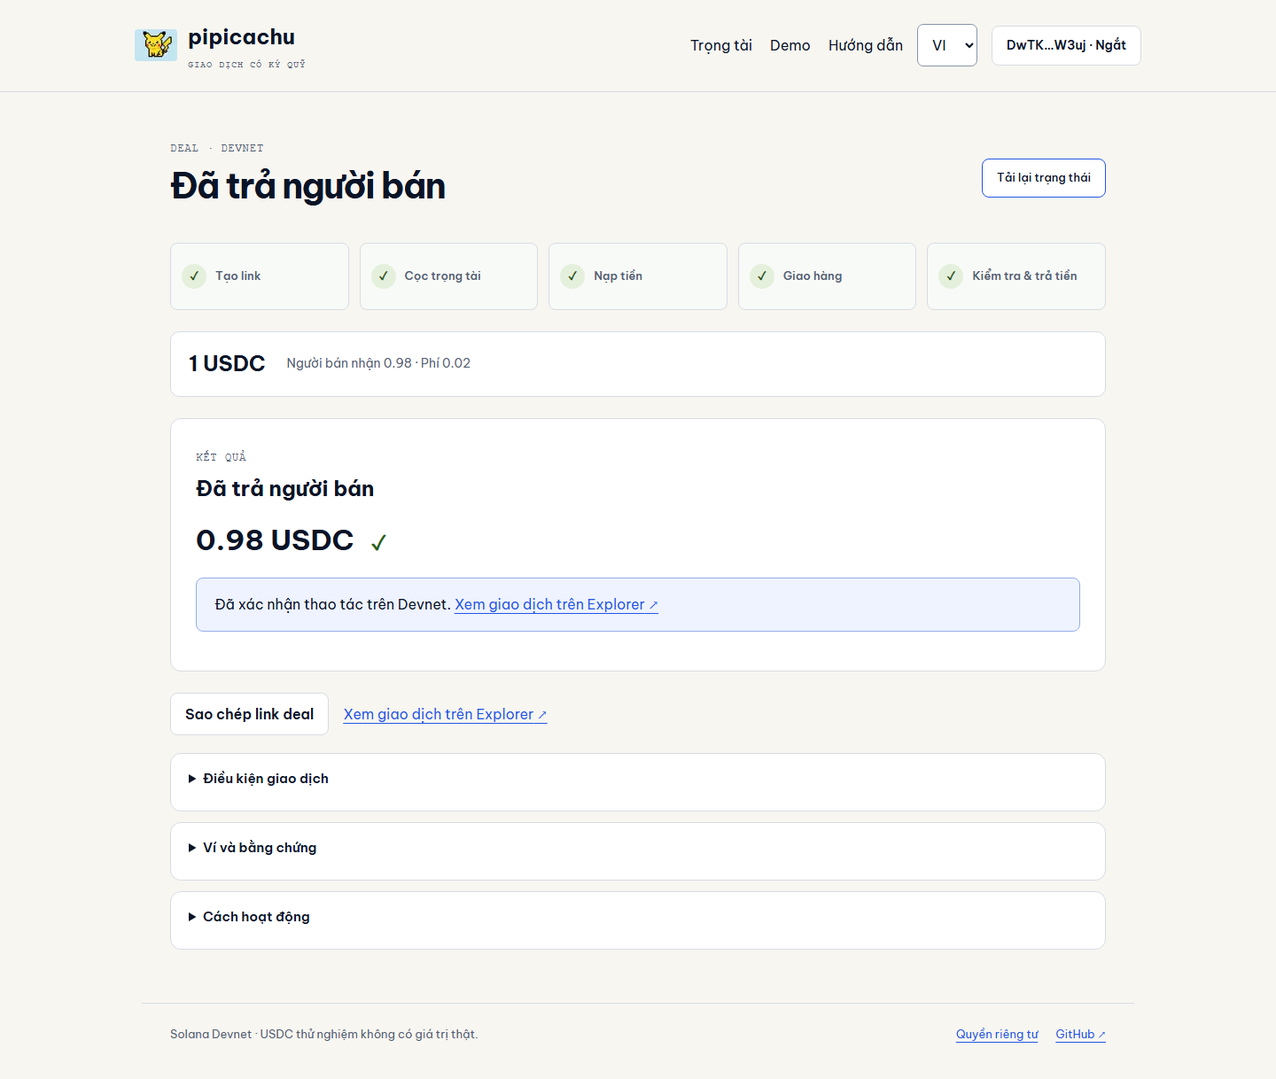
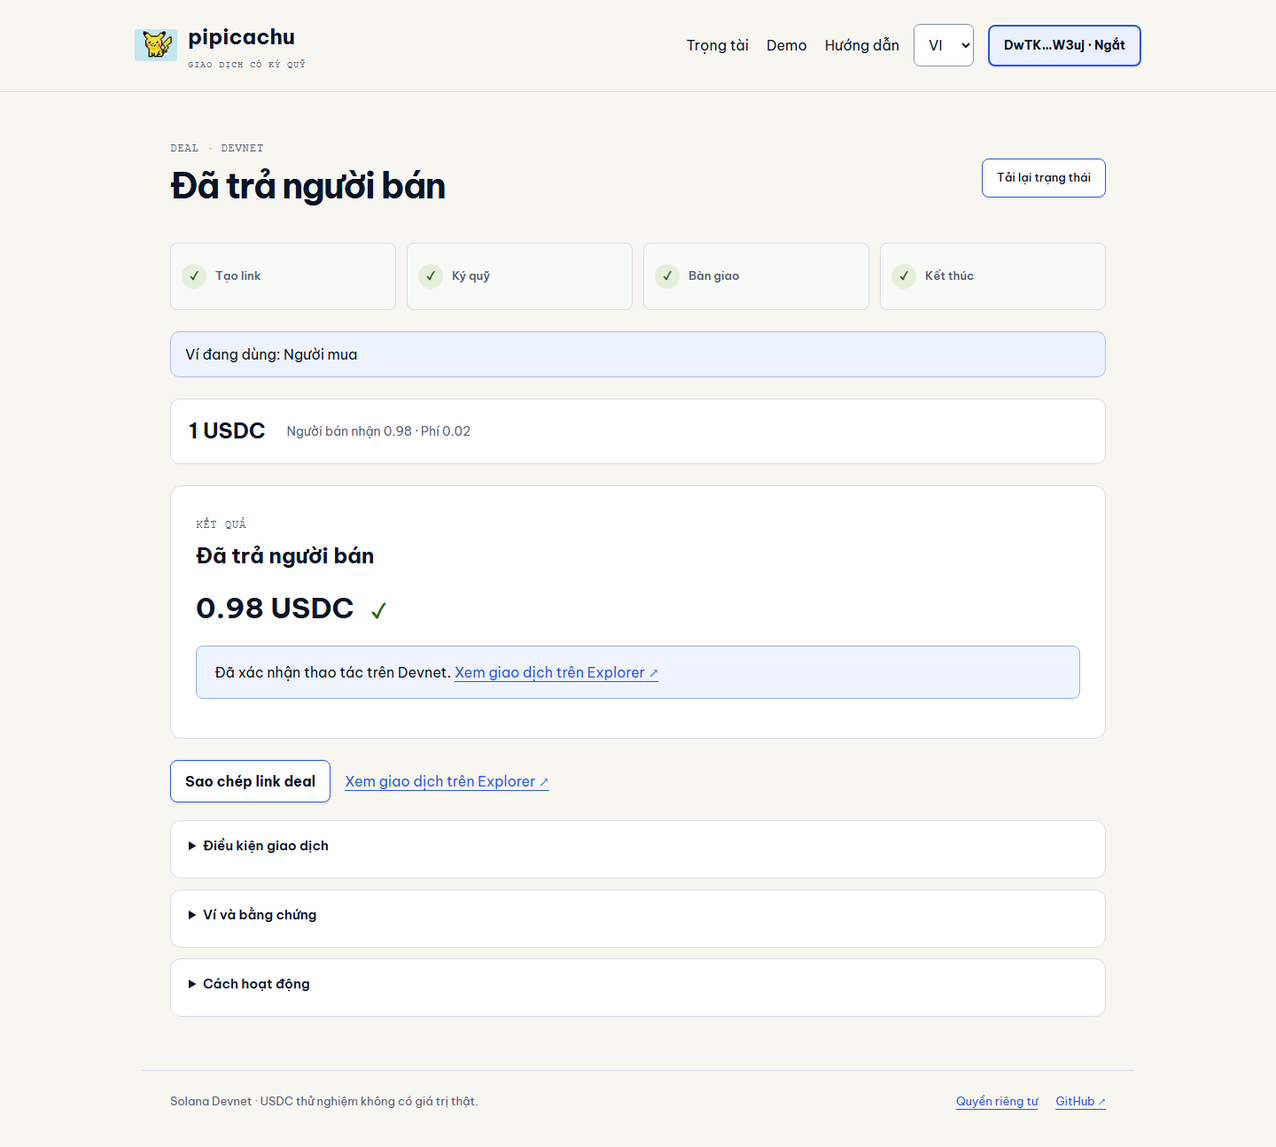
docs: hoàn tất bằng chứng và hướng dẫn flow trọng tài cọc trước
Lưu browser Vercel, finalized receipts và keeper workflow mới; cập nhật demo, README, ngữ cảnh và artifact CI. Hoàn thiện reset ghi chú theo ví và hướng dẫn không còn bước nhận deal thủ công cho workflow mới.

diff --git a/src/frontend/escrow.tsx b/src/frontend/escrow.tsx
@@ -646,6 +646,13 @@ export function DealView({ id }: { id: string }) {
     [receipts, setReceipts] = useState<{ signature: string; err: unknown }[]>(
       [],
     );
+  useEffect(() => {
+    const timer = setTimeout(() => {
+      setEvidence("");
+      setComplaintOpen(false);
+    }, 0);
+    return () => clearTimeout(timer);
+  }, [who, id]);
   const refresh = useCallback(async () => {
     try {
       const c = connection();
@@ -1319,7 +1326,7 @@ export function Admin() {
   const [arb, setArb] = useState<Arbitrator | null>(null),
     [org, setOrg] = useState<Organization | null>(null),
     [balance, setBalance] = useState("—"),
-    [value, setValue] = useState("10"),
+    [value, setValue] = useState("1"),
     [error, setError] = useState(""),
     [loaded, setLoaded] = useState(false),
     [deals, setDeals] = useState<Deal[]>([]);
@@ -1628,8 +1635,8 @@ export function Demo() {
           </li>
           <li>
             {t(
-              "Trọng tài đăng ký, nạp cọc. Người bán tạo deal, trọng tài mở link và chấp thuận.",
-              "The arbitrator registers and deposits bond. The seller creates a deal; the arbitrator opens its link and accepts.",
+              "Trọng tài được duyệt nạp cọc và bật nhận một lần. Người bán chọn tổ chức rồi tạo link; buyer nạp ngay nếu đủ điều kiện.",
+              "An approved arbitrator deposits bond and enables standing consent once. The seller selects it and creates a link; the buyer funds eligible deals directly.",
             )}
           </li>
           <li>
@@ -1644,7 +1651,7 @@ export function Demo() {
             {t("Tạo deal mới", "Create a new deal")}
           </Link>
           <Link className="button" href="/admin">
-            {t("Chuẩn bị trọng tài", "Prepare arbitrators")}
+            {t("Quỹ trọng tài", "Arbitrator bond pool")}
           </Link>
         </div>
         <p className="small">
@@ -1755,8 +1762,8 @@ export function Guide({ privacy = false }: { privacy?: boolean }) {
               </li>
               <li>
                 {t(
-                  "Trọng tài: chấp thuận vai trò, nạp cọc, phán quyết trả seller hoặc hoàn buyer trong thời hạn của mình.",
-                  "Arbitrators: accept roles, deposit bond and rule seller payout or buyer refund during their window.",
+                  "Trọng tài đã duyệt: nạp quỹ và bật nhận trước; xử tranh chấp trong thời hạn. Deal cũ giữ bước nhận riêng.",
+                  "Approved arbitrators pre-fund and enable standing consent; rule disputes within their window. Legacy deals keep individual acceptance.",
                 )}
               </li>
             </ul>

diff --git a/scripts/devnet/keeper-proof.ts b/scripts/devnet/keeper-proof.ts
@@ -8,7 +8,8 @@ import {
 } from "@solana/web3.js";
 import {
   act,
-  createDealIx,
+  createOrganizationDealIx,
+  readOrganization,
   dealAddress,
   digest,
   fundIx,
@@ -37,23 +38,24 @@ async function send(k: Keypair, ixs: Awaited<ReturnType<typeof act>>[]) {
     commitment: "confirmed",
   });
 }
+const organization = await readOrganization(c, arb.publicKey);
+if (!organization?.accepting) throw Error("Organization not ready");
 const deals = [];
 let nonce = BigInt(Date.now());
 for (const kind of ["undisputed", "disputed"] as const) {
   const n = nonce++,
     address = dealAddress(seller.publicKey, n);
   await send(seller, [
-    await createDealIx(
+    await createOrganizationDealIx(
       seller.publicKey,
       buyer.publicKey,
       arb.publicKey,
       n,
       1_000_000n,
-      [600, 300, kind === "disputed" ? 120 : 20, 1800],
+      organization.times,
       `Keeper proof: ${kind}. Seller creates; buyer pays 1 USDC; seller delivers. Review timeout pays seller 0.98 USDC + 0.01 arbitrator fee + 0.01 platform fee. Dispute must block automatic payout.`,
     ),
   ]);
-  await send(arb, [await act("accept_deal", arb.publicKey, address)]);
   await send(buyer, [
     await fundIx(buyer.publicKey, await readDeal(c, address.toBase58())),
   ]);
@@ -86,7 +88,7 @@ const deadline = deals[0].reviewBy;
 while (true) {
   const clock = await c.getAccountInfo(SYSVAR_CLOCK_PUBKEY);
   if (clock && Number(clock.data.readBigInt64LE(32)) >= deadline) break;
-  await new Promise((r) => setTimeout(r, 3000));
+  await new Promise((r) => setTimeout(r, 15000));
 }
 fs.mkdirSync("docs/evidence", { recursive: true });
 fs.writeFileSync(

diff --git a/README.md b/README.md
@@ -7,7 +7,7 @@
   <a href="LICENSE"><img src="https://img.shields.io/badge/License-Apache_2.0-2456E6?style=flat-square" alt="Apache 2.0"></a>
   <a href="https://pipicachu.vercel.app/demo"><img src="https://img.shields.io/badge/Solana-Devnet-B7F34D?style=flat-square&amp;labelColor=091426" alt="Solana Devnet"></a>
 </p>
-<p align="center"><a href="https://pipicachu.vercel.app"><strong>Mở sản phẩm</strong></a> · <a href="https://pipicachu.vercel.app/demo">Thử 6 kịch bản</a> · <a href="docs/evidence/README.md">Xem bằng chứng</a> · <a href="README.en.md">English</a></p>
+<p align="center"><a href="https://pipicachu.vercel.app"><strong>Mở sản phẩm</strong></a> · <a href="https://pipicachu.vercel.app/demo">Thử các kịch bản</a> · <a href="docs/evidence/README.md">Xem bằng chứng</a> · <a href="README.en.md">English</a></p>
 
 ![Một link giao dịch, điều kiện rõ ràng: tạo link → nạp USDC → bàn giao → xác nhận hoặc tranh chấp](docs/assets/readme-banner.svg)
 
@@ -36,12 +36,15 @@ Admin trung gian giao dịch hàng/dịch vụ số qua cộng đồng, cùng ng
 | Hết hạn không cần seller ký thêm          | Keeper gửi finalize; tranh chấp chặn payout tự động                   | [Keeper thật](docs/evidence/keeper-live.json)     |
 | Dễ theo dõi từng bước                     | UI VI/EN, bước hiện tại nổi bật, một hành động chính                  | [Design system](docs/design/system.md)            |
 
+## Trọng tài cọc trước — flow mới
+
+Trọng tài được initializer duyệt, nạp quỹ và ký bật nhận theo policy một lần. Seller chọn từ registry; buyer fund tự bảo lưu cọc. Không có lượt ký accept cho mỗi deal mới. UI4 bước, bỏ checkbox lặp và nhập ví trọng tài/thời hạn thủ công. Deal cũ giữ cách chấp thuận cũ. [Policy và tương thích](docs/product/organization-flow.md), [13 ca Devnet](docs/evidence/devnet-organization-checks.json). Demo A là tổ chức thử nghiệm, không phải đối tác công ty thật.
+
 ## Luồng giao dịch
 
 ```mermaid
 flowchart TD
-  A[Seller tạo link deal] --> B[Trọng tài chuẩn bị cọc và chấp thuận]
-  B --> C[Buyer nạp USDC vào vault]
+  A[Seller chọn trọng tài đã duyệt và tạo link] --> C[Buyer nạp USDC vào vault]
   C --> D{Seller bàn giao đúng hạn?}
   D -->|Không| E[Hoàn buyer toàn bộ tiền]
   D -->|Có| F{Buyer kiểm tra}
@@ -85,8 +88,8 @@ Treasury lưu trong FeeConfig immutable; không chọn recipient bằng UI hoặ
 
 | Phạm vi đã kiểm      | Kết quả / nguồn                                                                |
 | -------------------- | ------------------------------------------------------------------------------ |
-| Unit và IDL          | **53 tests**                                                                   |
-| Browser              | **17 tests** · VI/EN · 375/768/1024/1440px · axe                               |
+| Unit và IDL          | **55 tests**                                                                   |
+| Browser              | **21 tests** · VI/EN · 375/768/1024/1440px · axe                               |
 | Smart contract local | **39 executable checks** · mint synthetic có nhãn                              |
 | Devnet               | **39 checks**, **6 kịch bản** có receipt finalized đối chiếu số tiền           |
 | Tương thích phí cũ   | Deal nạp trước upgrade vẫn trả seller 99%, platform 0%                         |

diff --git a/docs/harness/context/CURRENT_STATE.md b/docs/harness/context/CURRENT_STATE.md
@@ -1,9 +1,11 @@
-# v0.5 trọng tài được duyệt — đang rollout
+# Trạng thái v0.5 — 05/10/2026
 
-User duyệt flow nạp cọc trước, standing consent và UI4 bước; nút connect/primary/secondary nổi bật, bỏ checkbox lặp, complaint mở khi cần, auto-open sau tạo. Registry approved/accepting/minDeposit/maxDeal/time policy enforce on-chain. Chỉ initializer approve, pause/revoke không chặn settlement funded; quỹ không rút khi accepting hoặc còn locked. Không slashing/bảo hiểm.
+Flow mới đã triển khai: registry do initializer duyệt, tổ chức nạp quỹ và ký bật nhận trước theo policy. CreateOrganizationDeal tự consent; buyer fund reserve atomically. Không một lượt ký nhận cho mỗi deal mới. Đang nhận/còn nghĩa vụ thì không rút cọc. Pause chặn funding workflow1 nhưng settlement funded vẫn hoạt động. Không bảo hiểm/slashing/KYC tự động.
 
-Contract cùng Program ID/layout876; workflow_version append1byte vào padding (legacy0). Fund/Bond bổ sung seed-bound optional registry, client cũ cần reload. Registry account123 riêng. Treasury và fee1+1 giữ nguyên. New legacy create cũng cần registry approved nhưng giữ manual consent; deal cũ vẫn workflow0.
+UI4 bước, chọn registry thay nhập địa chỉ/time thủ công, auto-open sau tạo, bỏ checkbox lặp, dialog số tiền khi payout/ruling, complaint form chỉ khi chọn. Reset draft theo wallet/id, role thực trên trang deal, nút connect lime/connected xanh và secondary outline; không blink. Poll khi visible10s, history RPC lỗi không biến thành lỗi đọc core.
 
-Đã kiểm native Rust compatibility, SBF không Stack offset,39 legacy checks +13 organization checks local,55 unit21 browser/build. SBF upgrade Devnet đã thành công, code prefix khớp dump và reserved padding toàn0. Setup Demo A min1USDC/max10USDC/policy30m/30m/5m/30m, initializer approval + arb standing consent đã ký thật,39 account cũ giữ fee/workflow. 13 CLI live organization tests đã pass, tổ chức Demo A đang accepting trở lại, không còn reserve của test. Browser/Vercel/CI đang nghiệm thu; chưa nhận hoàn tất.
+ProgramID/treasury/fee1+1 và Deal876 giữ nguyên; workflow_version1byte append vào padding, legacy0. Fund/Bond thêm registry ở cuối; reload client cũ. Demo A min1/max10 USDC,30m/30m/5m/30m; chưa là đối tác công ty thật.
 
-Không đổi Picachu cũ, không video trong scope. Key test pipicachu riêng work/private; không secret Vercel/Git. Không env mới.
+Đã kiểm: SBF không Stack offset, native Rust legacy512,39+13 local program checks;13 live organization checks và finalized receipt độc lập buyer-only funding +98/1/1 payout.39 account cũ giữ fee/workflow.55 unit21 browser/build/axe/responsive. Browser Vercel ký bằng provider test, không Phantom extension. Keeper service run37282329331 finalized workflow1 payout, dispute untouched và fixture đã refund. CI3a1c4e7 run37280669915 pass; checkpoint tài liệu/samples tiếp theo cũng chạy CI.
+
+SBF hash875287e32ca051c8d754a7f69d824bd8f2bb2ac240d8d381777792b5ae9a9422; deployed prefix khớp, trailing reserved bytes toàn0 sau extend. Upgrade authority còn giữ. Không env mới, không thay Picachu cũ/video. Không có test principal cố ý giữ khóa. Đọc evidence/README và health khi tiếp tục.

diff --git a/docs/harness/context/HANDOFF.md b/docs/harness/context/HANDOFF.md
@@ -1,13 +1,9 @@
-# Bàn giao — v0.4
+# Bàn giao v0.5
 
-Đọc CURRENT_STATE và docs/evidence/README.md. Treasury immutable CXjKGEBNTTotzoF26nGPfAG4AFicGgP72SMqUQKY1pJN. Không dùng key Picachu cũ; key pipicachu work/private chỉ Devnet/ignore. Không thêm private key/env nhận phí vào Vercel.
+Đọc CURRENT_STATE, docs/product/organization-flow.md và evidence/README. Implementation3a1c4e7 đã deploy Devnet/Vercel, CI web/program pass. Final docs/samples/copy checkpoint giữ nguyên logic tiền.
 
-Deal mới chốt phí1+1, principal không tăng, refund đầy đủ; deal cũ giữ1%. Cùng Program ID/layout876, nine-byte append vào padding; feeVersion0 legacy. Init FeeConfig chỉ pin initializer, không update. Full message/signature binding và destination constraints giữ nguyên.
+Registry whitelist+prepaid pool+standing consent chỉ initializer quản lý approval; quyền ví tổ chức sign accepting. Không user self-approve. Policy demo min1/max10USDC và30m/30m/5m/30m. Muốn duyệt ví tổ chức khác cần onboarding/initializer ký qua SDK, không nhập key vào Vercel. Demo A không phải công ty thật.
 
-Đã nghiệm thu39 Devnet checks/6 finalized receipts, legacy99%, keeper98/1/1 +dispute untouched, web53 unit17 browser, Vercel live signed provider+reject+axe+VI/EN, binary cmp/SHA và CI web/program. Không gọi provider test là Phantom thật. Không cam kết scheduler trả đúng giây.
+Legacy deal giữ consent/fees; sameProgramId/876 allocation. Workflow1 bỏ accept từng deal. Treasury CXjKGEBNTTotzoF26nGPfAG4AFicGgP72SMqUQKY1pJN immutable không đổi. Keeper permissionless giữ SLA best-effort. Paused organization vẫn xử nghĩa vụ đã funded. Cọc không phải insurance/slashing; arbiters bỏ xử không đồng thuận vẫn có thể kẹt tiền.
 
-Source triển khai ở b6176d3; checkpoint bằng chứng/samples/tài liệu cập nhật sau nghiệm thu. Không sửa Picachu cũ, không dựng slide/video trong scope escrow này. Public USDC Devnet mint Circle, keeper riêng chỉ giữ SOL cho phí. Khoản test intentional dispute đã refund; không giữ principal test active. Kiểm CURRENT_STATE/health/Git trước tiếp tục.
-
-## Repository presentation / Apache-2.0
-
-README VI/EN đã thống nhất banner, flow, fees, proof và source map; About/topics GitHub cập nhật. LICENSE/NOTICE/package/Cargo hiện Apache-2.0 cho original code/docs; third-party/font/logo giữ scope riêng, revision cũ không bị đổi. Community docs tại .github, private vulnerability reporting enabled. Không nhận banner là social-preview upload; đây là asset README. Metadata giấy phép không thay protocol, không cần contract/env mới.
+55 unit21 browser,52 executable local checks,13 live org checks + finalized transfers, native compatibility, UI-to-program Vercel provider test và keeper workflow1 thật đã kiểm. Phantom extension actual chưa kiểm lại; không gọi injected provider là Phantom proof. Key chỉ pipicachu work/private ignore. Không env mới, không Mainnet, không video hoặc sửa Picachu cũ.

diff --git a/README.en.md b/README.en.md
@@ -36,12 +36,15 @@ This is a technical MVP. User research, revenue and willingness to pay have not 
 | Timeout payout without another seller signature          | Keeper submits finalize; disputes block automatic payout                         | [Live keeper](docs/evidence/keeper-live.json)      |
 | A readable next step                                     | Consistent VI/EN UI, highlighted current step, one primary action                | [Design](docs/design/system.md)                    |
 
+## Prepaid approved organizations
+
+Initializer-approved arbitrators deposit a pool and sign standing consent once. Sellers select the registry; buyer funding reserves bond atomically without per-deal arbitrator signing. Four-step UI, no repetitive checkboxes or manual arbitrator address/time fields. Legacy deals retain manual acceptance. [Policy](docs/product/organization-flow.md), [13 live Devnet checks](docs/evidence/devnet-organization-checks.json). Demo A is a test organization, not a real corporate partnership.
+
 ## Deal flow
 
 ```mermaid
 flowchart TD
-  A[Seller creates deal link] --> B[Arbitrator prepares bond and accepts]
-  B --> C[Buyer deposits USDC into vault]
+  A[Seller selects an approved organization and creates link] --> C[Buyer deposits USDC into vault]
   C --> D{Delivery before deadline?}
   D -->|No| E[Full buyer refund]
   D -->|Yes| F{Buyer reviews}
@@ -85,8 +88,8 @@ The immutable FeeConfig defines the treasury; UI/env cannot select the recipient
 
 | Verified scope           | Result / source                                                                        |
 | ------------------------ | -------------------------------------------------------------------------------------- |
-| Unit and IDL             | **53 tests**                                                                           |
-| Browser                  | **17 tests** · VI/EN · 375/768/1024/1440px · axe                                       |
+| Unit and IDL             | **55 tests**                                                                           |
+| Browser                  | **21 tests** · VI/EN · 375/768/1024/1440px · axe                                       |
 | Local smart contract     | **39 executable checks** · labelled synthetic mint                                     |
 | Devnet                   | **39 checks**, **6 scenarios** with finalized vault-transfer receipts                  |
 | Legacy fee compatibility | Pre-upgrade funded deal pays 99% seller, 0% platform                                   |

diff --git a/docs/evidence/README.md b/docs/evidence/README.md
@@ -1,4 +1,18 @@
-# Bằng chứng v0.4 — phí hệ thống
+# Bằng chứng v0.5 — trọng tài được duyệt, cọc trước
+
+- [Registry rollout](organization-rollout.json): initializer duyệt Demo A, trọng tài ký standing consent thật. 39 account cũ giữ fee/workflow snapshot. Tổ chức thử nghiệm, không phải đối tác công ty thật.
+- [13 checks local](local-organization-checks.json) và [13 checks Devnet](devnet-organization-checks.json): authority, policy, pause/fund, withdrawal lock, reserve/double fund, settle khi paused, phí và double payout.
+- [Receipt độc lập finalized](organization-finalized-receipts.json): fund chỉ có buyer signer, không arb ký từng deal; payout98/1/1 đúng destination và mint.
+- [Vercel browser mới](browser-wallet-cycle.json): auto-open sau tạo → fund trực tiếp → deliver → reject giữ state → confirm với dialog số tiền; axe/VI/EN/privacy. Injected test provider, không Phantom extension thật.
+- [Keeper workflow1](keeper-live.json): run37282329331 signer service thật, payout98/1/1; disputed giữ nguyên rồi arb refund fixture.
+
+Web55 unit/21 browser, UI4 bước cho deal mới và5 bước legacy, responsive375/768/1024/1440. CI implementation [37280669915](https://github.com/2274802010922/pipicachu/actions/runs/37280669915) pass cả web và52 executable program checks (39+13); native Rust compatibility đã kiểm riêng.
+
+SBF dump có code prefix khớp [binary proof](program-binary.json), phần capacity thêm chỉ zero; không ghi byte-for-byte toàn file khi có padding. [Deployment](devnet-deployment.json) giữ Program ID và treasury, schema5. Không env mới, Mainnet hoặc audit độc lập.
+
+## Bằng chứng phí/legacy trước workflow mới
+
+### v0.4 — phí hệ thống
 
 Deal mới: seller 98%, trọng tài 1%, hệ thống 1%; refund nguyên principal. Treasury `CXjKGEBNTTotzoF26nGPfAG4AFicGgP72SMqUQKY1pJN`. Chỉ Devnet.
 

diff --git a/docs/testing/README.md b/docs/testing/README.md
@@ -8,6 +8,8 @@ CI không cần private key maintainer: Config được inject genesis (ghi rõ 
 
 Flow: buyer confirm, review timeout, missed delivery refund, trọng tài trả seller/hoàn buyer, đồng thuận hoàn tiền sau một deadline trọng tài. Kiểm số dư principal, phí, vault zero, cọc khóa/unlock, double settlement, wrong buyer/actor, thời hạn và tranh chấp. Negative assertions phải là program/transaction rejection, không chấp nhận RPC unavailable như test pass.
 
-Devnet: cần SOL + Circle USDC đúng mint cho ví pipicachu mới; `npm run demo:fixtures`. Script dùng 2 USDC/deal, tự phân bổ cọc nhỏ nếu thiếu; không dùng Mainnet. Receipt viết docs/evidence/devnet-escrow-cycle.json và samples.json. Account/terms/hash công khai, key chỉ work/private ignore.
+Devnet: cần SOL + Circle USDC đúng mint cho ví pipicachu mới; `npm run demo:fixtures`. Script dùng 2 USDC/deal, tự phân bổ cọc nhỏ nếu thiếu; không dùng Mainnet. Raw checks viết docs/evidence/devnet-program-checks.json; verify-receipts đối chiếu finalized receipts riêng. Account/terms/hash công khai, key chỉ work/private ignore.
 
 Phantom thực là cổng riêng. Provider inject để browser ký bằng ví test chỉ kiểm UI-to-program flow, không chứng minh extension Phantom/popup hoạt động trên mọi thiết bị. User đã yêu cầu ưu tiên tự kiểm Devnet; nếu extension không khả dụng ghi rõ giới hạn.
+
+Organization tests: 13 case về manager permission, standing consent, policy, pause, reserved bond/withdraw, payout98/1/1 và double settlement; local chạy sau cycle trên cùng validator. `npx tsx tests/program/organizations.ts --devnet` cần registry đã thiết lập.

diff --git a/docs/architecture/README.md b/docs/architecture/README.md
@@ -1,4 +1,4 @@
-# Kiến trúc escrow v0.3
+# Kiến trúc escrow v0.5
 
 ```text
 Browser + Phantom → Devnet RPC proxy → Anchor program
@@ -26,3 +26,7 @@ Wallet ký: khai báo compute budget trước simulate/sign (300.000 CU, priorit
 Deal mới chốt 1% trọng tài + 1% hệ thống; buyer nạp nguyên số tiền, seller nhận số tiền trừ hai phí. Hoàn buyer nguyên principal, không phí. Chia tiền và mở cọc trong cùng transaction. Platform ATA phải thuộc treasury FeeConfig immutable: `CXjKGEBNTTotzoF26nGPfAG4AFicGgP72SMqUQKY1pJN`. Chỉ initializer pin được tạo FeeConfig một lần, không có lệnh sửa treasury. Upgrade authority vẫn tồn tại trong demo Devnet.
 
 Deal giữ discriminator/PDA/allocation 876 bytes. Bổ sung u64 platform_fee và u8 fee_version sau terms vào padding cũ tối thiểu 28 bytes. Legacy đọc fee_version=0/platform_fee=0, không thu phí hồi tố. Create/settle bổ sung FeeConfig/platform ATA; client cũ cần reload. Mỗi phí 1% làm tròn xuống đơn vị nguyên USDC, phần dư thuộc seller.
+
+## Approved organization workflow
+
+Registry account riêng123 bytes, authority+mint+approval+accepting+policy. Fund/Bond có seed-bound optional registry; workflow1 yêu cầu approved/accepting và min/max capacity. New createOrganizationDeal snapshot consent, fee và deadlines; không gọi accept từng deal. Settlement bỏ qua trạng thái tiếp nhận để không khóa nghĩa vụ đã nạp. Deposit pool không đồng nghĩa bảo hiểm. [Flow và ABI compatibility](../product/organization-flow.md).

diff --git a/docs/deployment/README.md b/docs/deployment/README.md
@@ -28,3 +28,7 @@ Fork phải tạo ví service mới và secret riêng; workflow mặc định ch
 ## Ví nhận phí hệ thống
 
 Ví owner chọn: `CXjKGEBNTTotzoF26nGPfAG4AFicGgP72SMqUQKY1pJN`. Treasury lưu tại FeeConfig PDA trên Devnet; không cần thêm biến môi trường/private key. `npm run check:live` đối chiếu treasury on-chain với deployment public. Không đổi recipient bằng env. Script `scripts/devnet/fee-rollout.ts` ghi legacy trước upgrade và initialize sau upgrade, chỉ dùng key pipicachu trong vùng ignore.
+
+## Organization registry v0.5
+
+Không env mới. `scripts/devnet/setup-organization.ts` chỉ dùng key pipicachu trong ignore để initializer duyệt Demo A và trọng tài ký standing consent. Không tự chọn công ty thật hoặc đưa key lên Vercel. Policy demo min1/max10 USDC,30m/30m/5m/30m. Người dùng thông thường không được tự approve registry; wallet/deal cũ cần reload sau nâng cấp account list.
